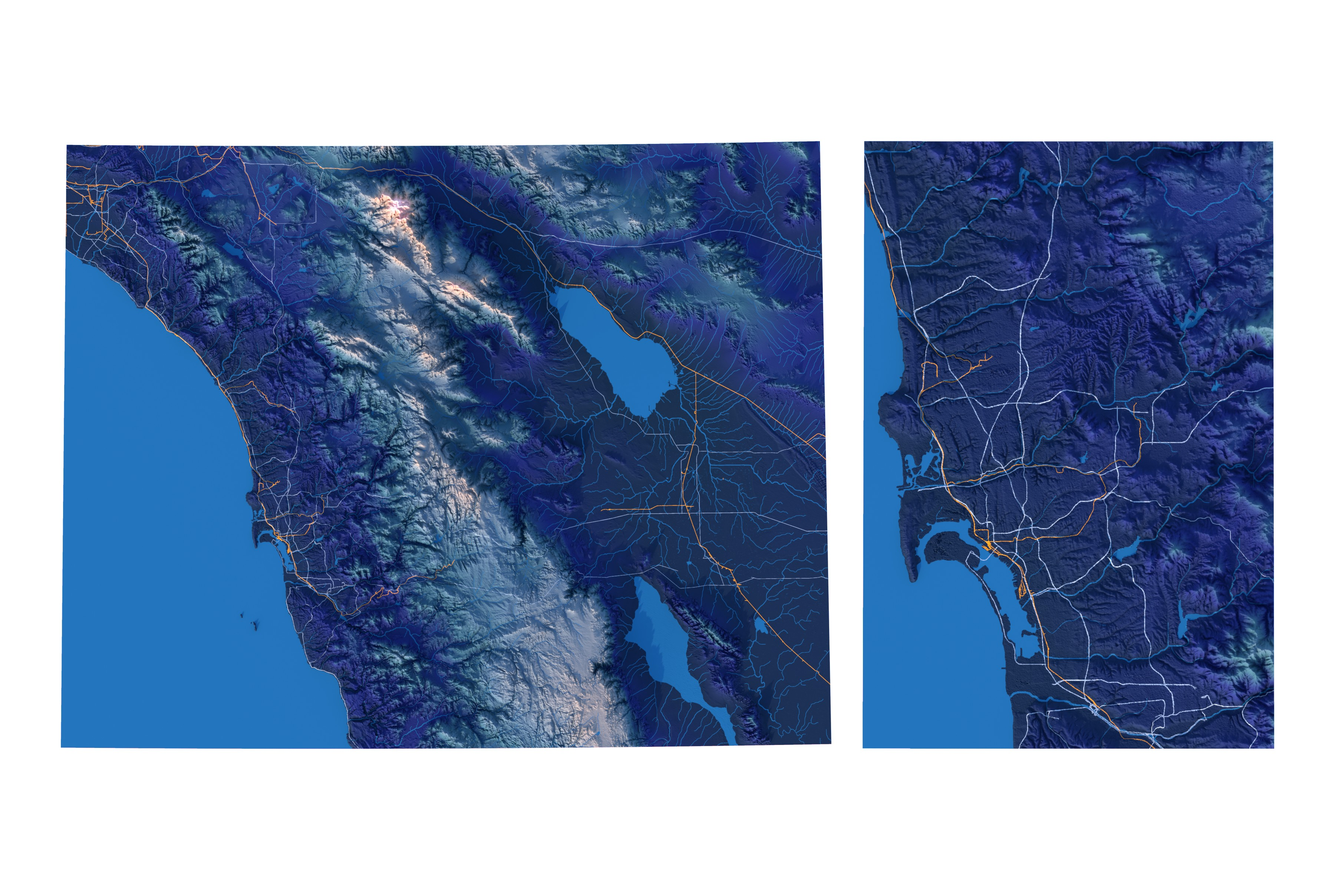
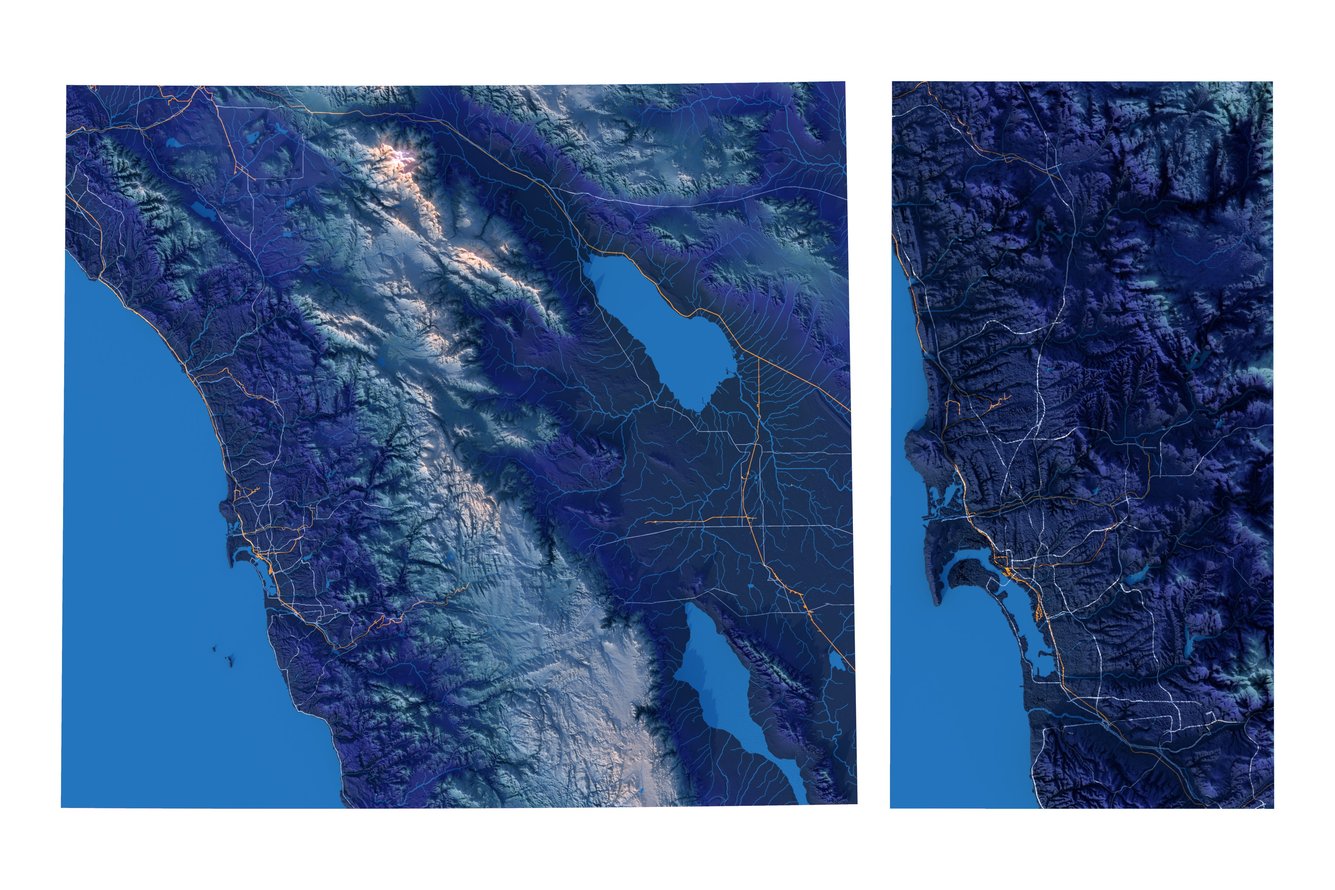
feat: crop San Diego main panel and extend inset to Oceanside
Trim the main DEM 12 mi on each side, stretch the inset from just below
the border to Oceanside, raise the city panel height scale, and refresh
the rendered JPEG.

diff --git a/examples/san_diego_terrain.py b/examples/san_diego_terrain.py
@@ -91,9 +91,11 @@ logger = logging.getLogger(__name__)
 # =============================================================================
 
 SAN_DIEGO_BBOX = (32.50, -117.30, 33.10, -116.90)
-# ~41 mi tall × 23 mi wide centered on San Diego / Tijuana
-SAN_DIEGO_INSET_BBOX = (32.50, -117.30, 33.10, -116.82)
-# Inset: same lat span as main, coast east to Ramona (~41 mi tall × 28 mi wide)
+# Used for DEM download trigger only
+SAN_DIEGO_MAIN_BBOX = (32.0, -117.7933, 34.0, -115.2067)
+# Full DEM tiles trimmed 12 mi on each side (~150 mi wide × 138 mi tall)
+SAN_DIEGO_INSET_BBOX = (32.45, -117.30, 33.22, -116.82)
+# Inset: just below US/Mexico border to Oceanside (~53 mi tall × 28 mi wide)
 SAN_DIEGO_DEM_DIR = Path(__file__).parent.parent / "data" / "san_diego_dem"
 HYDRORIVERS_SHP = (
     Path(__file__).parent.parent / "data" / "hydrorivers"
@@ -684,9 +686,13 @@ def main():
         pass
 
     cmap_name = "san_diego"
+    # Crop main DEM to trimmed bbox (12 mi off each side)
+    main_dem, main_tf = _crop_dem(dem_data, dem_transform, SAN_DIEGO_MAIN_BBOX)
+    print(f"  Main DEM crop: {main_dem.shape} ({main_dem.size:,} pixels)")
+
     # Main panel: broad area, moderate vertex density
     _, main_mesh, _ = _build_panel(
-        dem_data, dem_transform, main_target,
+        main_dem, main_tf, main_target,
         roads, railways, rivers, lakes_geojson, height_scale=10,
         road_width=1, rail_width=3, river_width_scale=1.5, label="main",
         cmap_name=cmap_name, elev_range=elev_range,
@@ -701,7 +707,7 @@ def main():
     city_target = WIDTH * HEIGHT
     _, city_mesh, _ = _build_panel(
         city_dem, city_tf, city_target,
-        roads, railways, rivers, lakes_geojson, height_scale=15.0,
+        roads, railways, rivers, lakes_geojson, height_scale=50.0,
         road_width=1, rail_width=1,
         river_width_scale=0.8, river_resolution=30.0,
         cmap_name=cmap_name, elev_range=elev_range, label="city",
